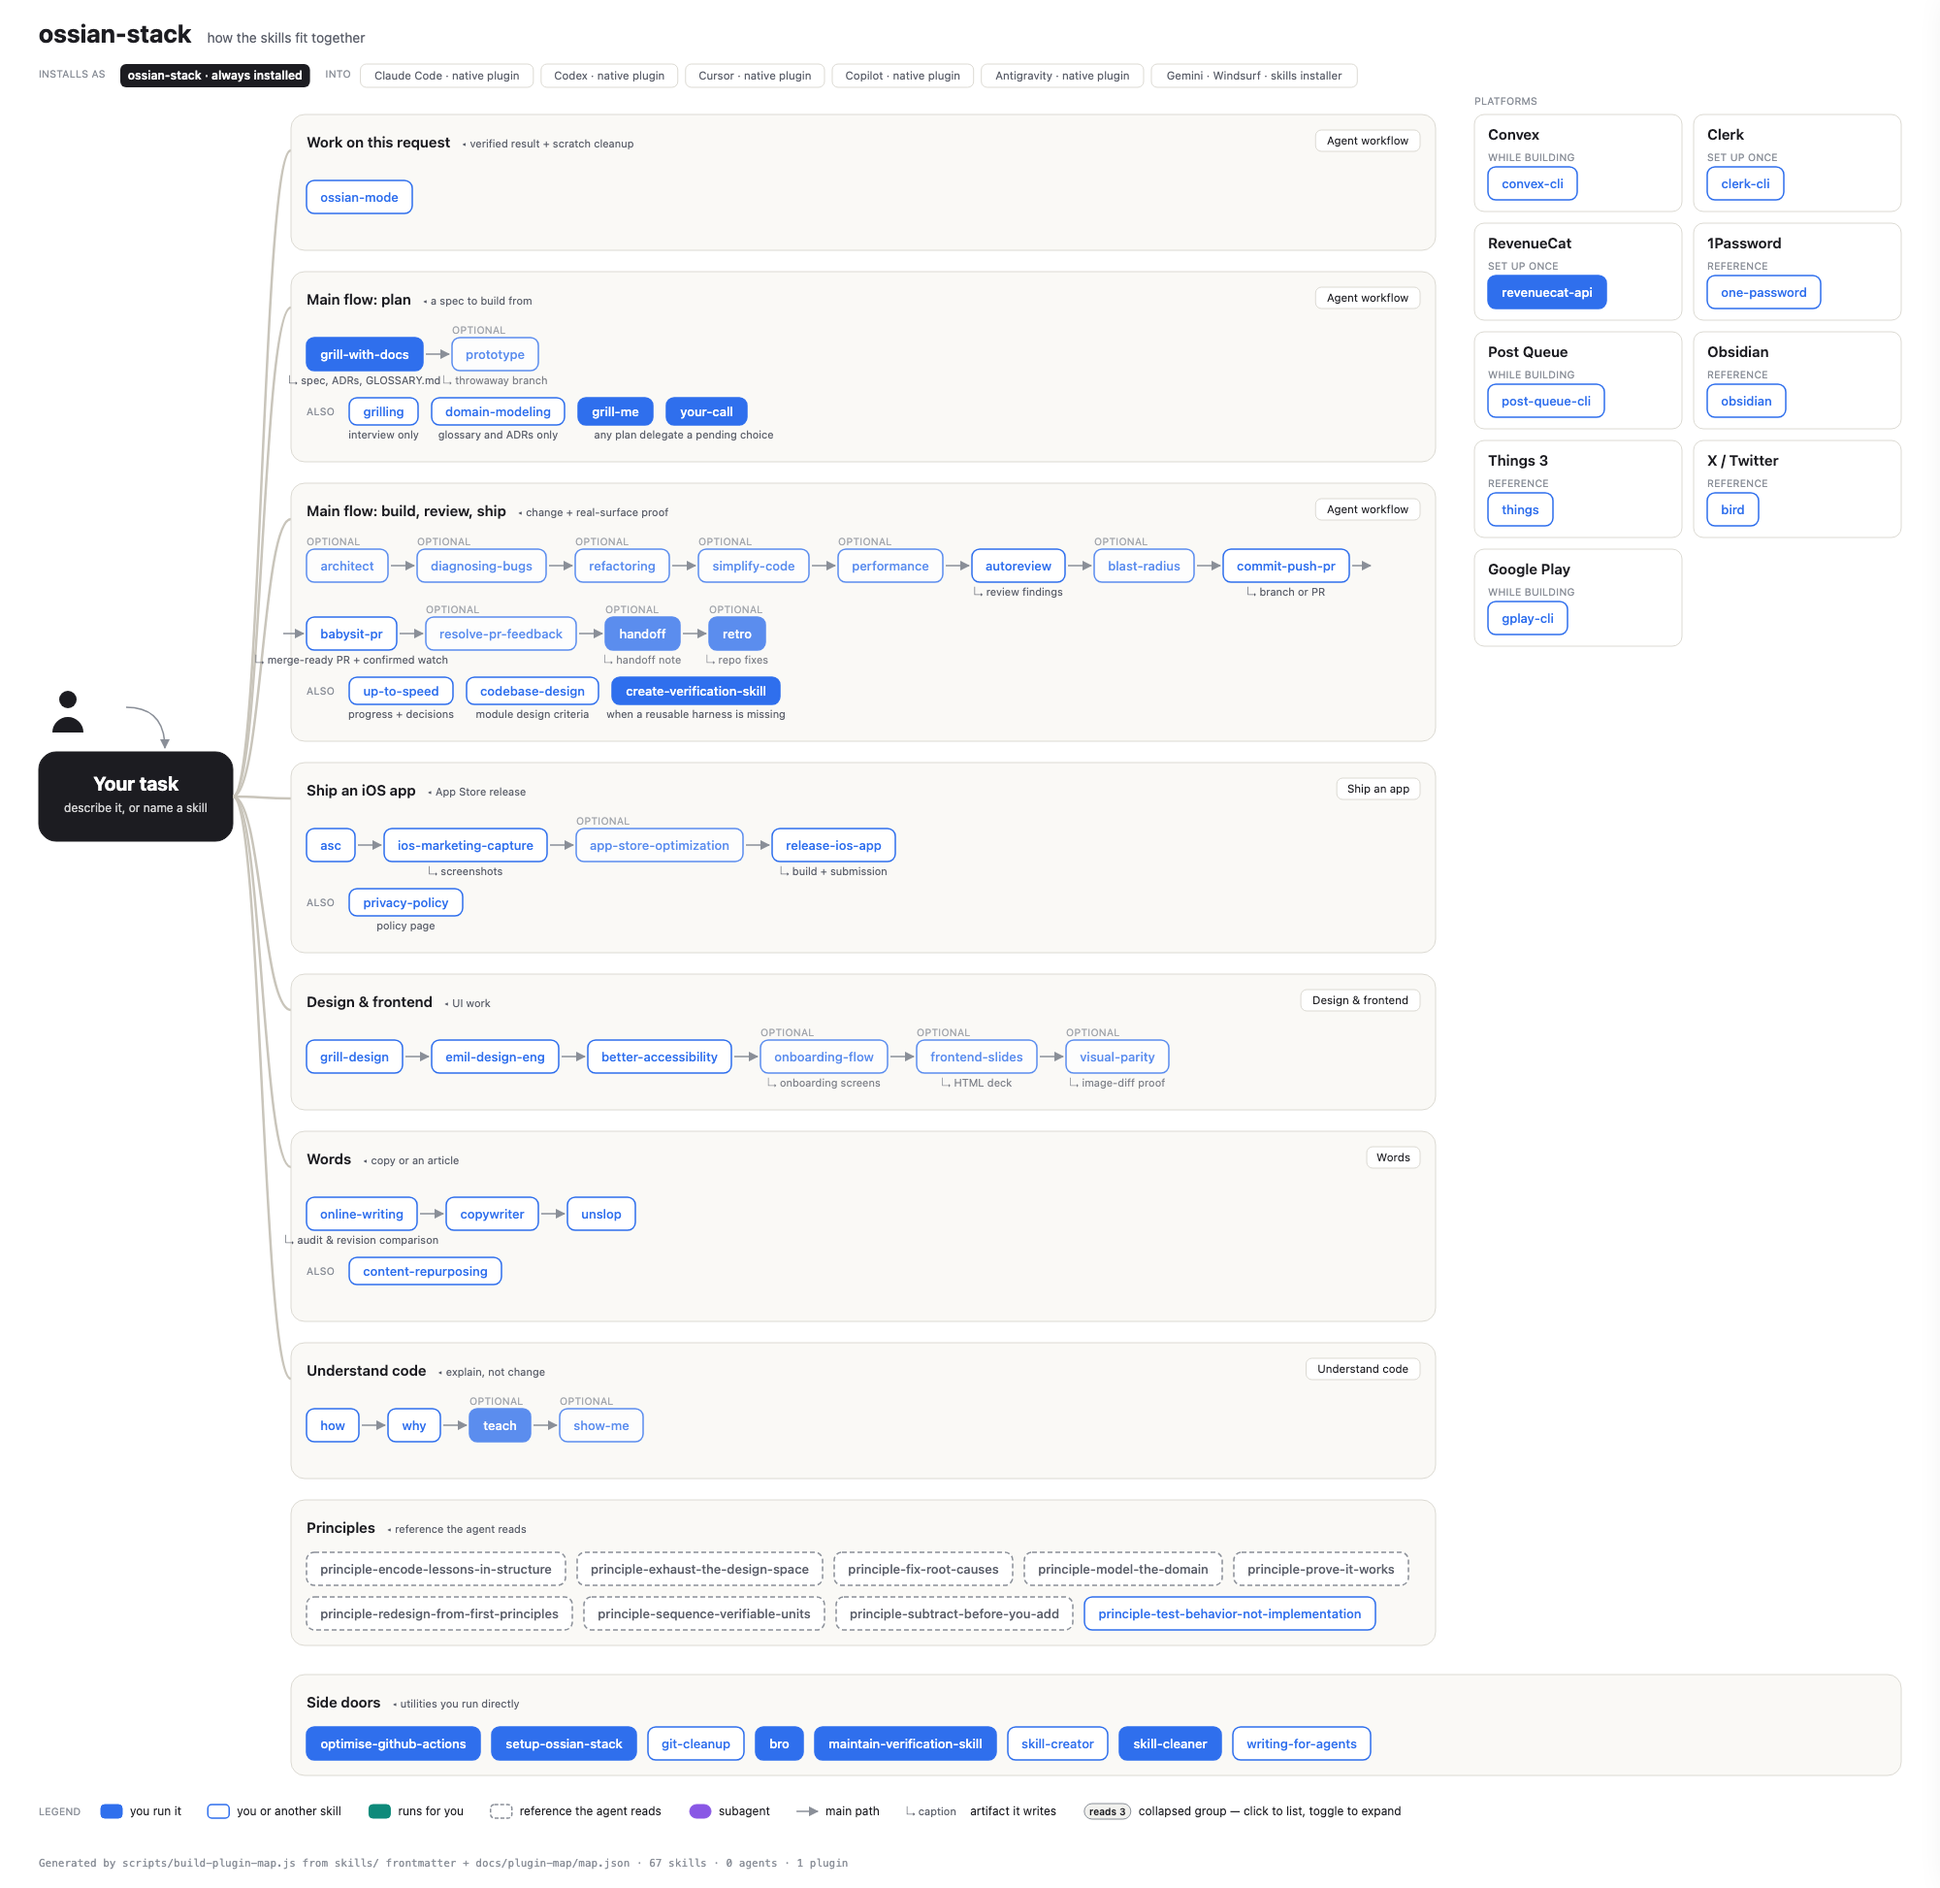
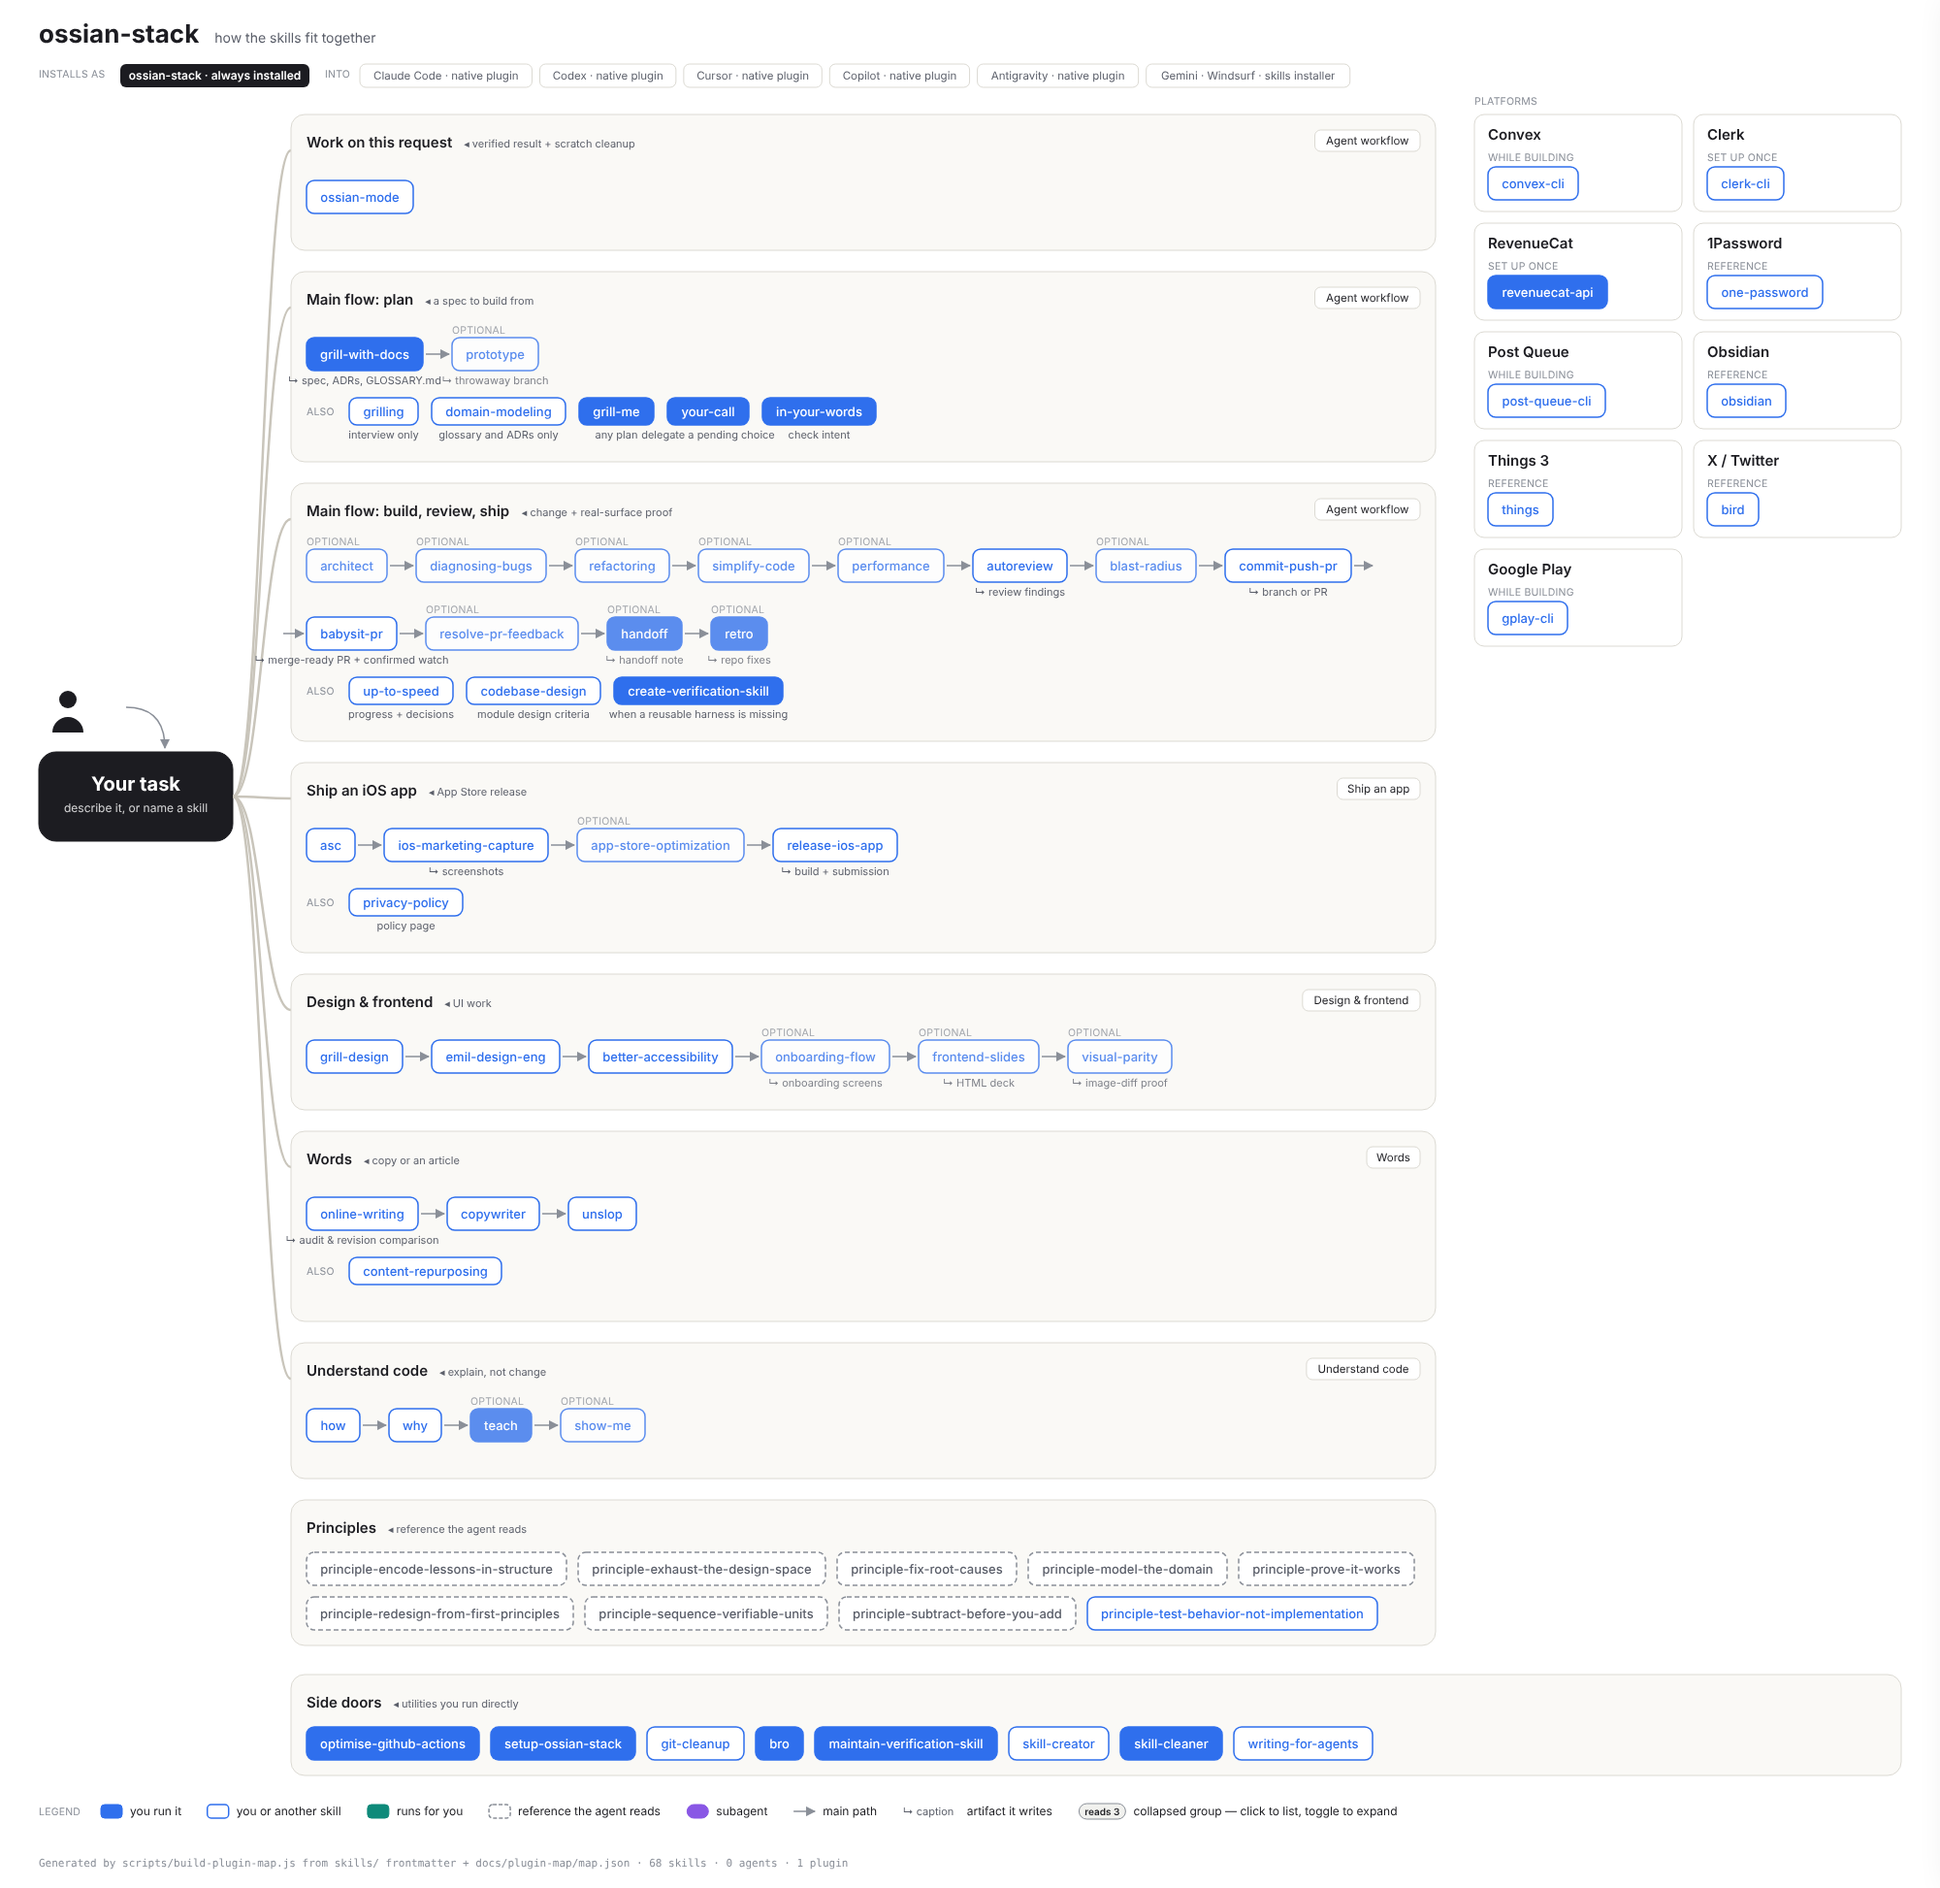
feat(in-your-words): add skill to restate the user's request before acting
Explicit-only skill: the agent plays back the user's goal, scope, and
assumptions in its own words and waits for confirmation before doing
any work.

Claude-Session: https://claude.ai/code/session_01X51LnP9QSzyFW51tHd8jzS

diff --git a/docs/plugin-map/index.html b/docs/plugin-map/index.html
@@ -199,6 +199,10 @@
      {
       "id": "your-call",
       "note": "delegate a pending choice"
+     },
+     {
+      "id": "in-your-words",
+      "note": "check intent"
      }
     ]
    },
@@ -1088,6 +1092,22 @@
     "why"
    ]
   },
+  "in-your-words": {
+   "id": "in-your-words",
+   "type": "skill",
+   "plugin": "ossian-stack",
+   "display": "In Your Words",
+   "description": "Restate what the user just asked, and the intent behind it, in your own words so they can confirm you understood before you act.",
+   "role": "human",
+   "humanOnly": true,
+   "argumentHint": null,
+   "origin": "local",
+   "repo": null,
+   "calls": [],
+   "routes": [],
+   "calledBy": [],
+   "routedBy": []
+  },
   "ios-marketing-capture": {
    "id": "ios-marketing-capture",
    "type": "skill",
@@ -1882,7 +1902,7 @@
   }
  },
  "counts": {
-  "skills": 67,
+  "skills": 68,
   "agents": 0,
   "plugins": 1
  }

diff --git a/README.md b/README.md
@@ -2,7 +2,7 @@
 
 Ossian's personal agent skills, packaged as one plugin for Claude Code, Codex, and Cursor.
 
-![skills](https://img.shields.io/badge/skills-67-blue)
+![skills](https://img.shields.io/badge/skills-68-blue)
 ![license](https://img.shields.io/badge/license-MIT-green)
 ![runtimes](https://img.shields.io/badge/runtimes-Claude%20Code%20%C2%B7%20Codex%20%C2%B7%20Cursor-8957e5)
 
@@ -173,7 +173,7 @@ refreshed instead of quietly rotting.
 
 ## Skills at a glance
 
-67 skills, grouped by what they are for.
+68 skills, grouped by what they are for.
 
 | Group | Covers | Skills |
 | --- | --- | --- |
@@ -181,7 +181,7 @@ refreshed instead of quietly rotting.
 | **Design & frontend** | Accessibility, UI craft and motion, decks, onboarding, throwaway prototypes | `better-accessibility` · `emil-design-eng` · `grill-design` · `frontend-slides` · `onboarding-flow` · `prototype` · `visual-parity` |
 | **Words** | Marketing copy, editorial audit, headlines and hooks, research, content repurposing, plain-statement and slop pass | `copywriter` · `online-writing` · `content-repurposing` · `unslop` |
 | **Backend & infra** | Convex, Clerk, RevenueCat, secrets, Post Queue, infrastructure operations, explicitly invoked Actions audits | `convex-cli` · `clerk-cli` · `revenuecat-api` · `one-password` · `post-queue-cli` · `optimise-github-actions` |
-| **Agent workflow** | Review, routing, large-effort planning, simplification, refactoring, debugging, verification, session retrospectives, direct trunk delivery or PR creation with merge-ready follow-through, targeted post-merge cleanup, explicit repository-wide git hygiene, install and skill maintenance | `architect` · `codebase-design` · `autoreview` · `babysit-pr` · `blast-radius` · `commit-push-pr` · `retro` · `setup-ossian-stack` · `diagnosing-bugs` · `domain-modeling` · `performance` · `create-verification-skill` · `maintain-verification-skill` · `git-cleanup` · `grill-me` · `grill-with-docs` · `grilling` · `your-call` · `handoff` · `up-to-speed` · `ossian-mode` · `refactoring` · `resolve-pr-feedback` · `simplify-code` · `bro` · `skill-creator` · `skill-cleaner` · `writing-for-agents` |
+| **Agent workflow** | Review, routing, large-effort planning, simplification, refactoring, debugging, verification, session retrospectives, direct trunk delivery or PR creation with merge-ready follow-through, targeted post-merge cleanup, explicit repository-wide git hygiene, install and skill maintenance | `architect` · `codebase-design` · `autoreview` · `babysit-pr` · `blast-radius` · `commit-push-pr` · `retro` · `setup-ossian-stack` · `diagnosing-bugs` · `domain-modeling` · `performance` · `create-verification-skill` · `maintain-verification-skill` · `git-cleanup` · `grill-me` · `grill-with-docs` · `grilling` · `in-your-words` · `your-call` · `handoff` · `up-to-speed` · `ossian-mode` · `refactoring` · `resolve-pr-feedback` · `simplify-code` · `bro` · `skill-creator` · `skill-cleaner` · `writing-for-agents` |
 | **Principles** | Working principles — verification, behavior-based testing, design exploration, debugging posture, domain modeling | `principle-encode-lessons-in-structure` · `principle-exhaust-the-design-space` · `principle-fix-root-causes` · `principle-model-the-domain` · `principle-prove-it-works` · `principle-redesign-from-first-principles` · `principle-sequence-verifiable-units` · `principle-subtract-before-you-add` · `principle-test-behavior-not-implementation` |
 | **Understand code** | Codebase walkthroughs, design rationale, explaining a change, visual sketches | `how` · `why` · `teach` · `show-me` |
 | **Personal tooling** | Notes, tasks, and X/Twitter reads and authorized actions | `obsidian` · `things` · `bird` |

diff --git a/skills/in-your-words/SKILL.md b/skills/in-your-words/SKILL.md
@@ -1,0 +1,22 @@
+---
+name: in-your-words
+description: Restate what the user just asked, and the intent behind it, in your own words so they can confirm you understood before you act.
+disable-model-invocation: true
+---
+
+# In your words
+
+The user wants to check that you understood them before any work happens. Play
+back their last request, and the intent behind it, in your own words. Paraphrase
+it, so a misreading shows. Echoing their phrasing back would hide one.
+
+Cover, in a few short lines:
+
+- **Goal:** what they want to end up with, and why, as you read it.
+- **Scope:** what is in, and anything you take to be out.
+- **Assumptions:** what you are filling in that they did not say. If two
+  readings are plausible, name both and say which one you would go with.
+
+Stop there. Take no action on the request, and give no plan unless they asked
+for one. End with one line asking whether that is right. Once they confirm or
+correct you, carry on with the corrected reading.
